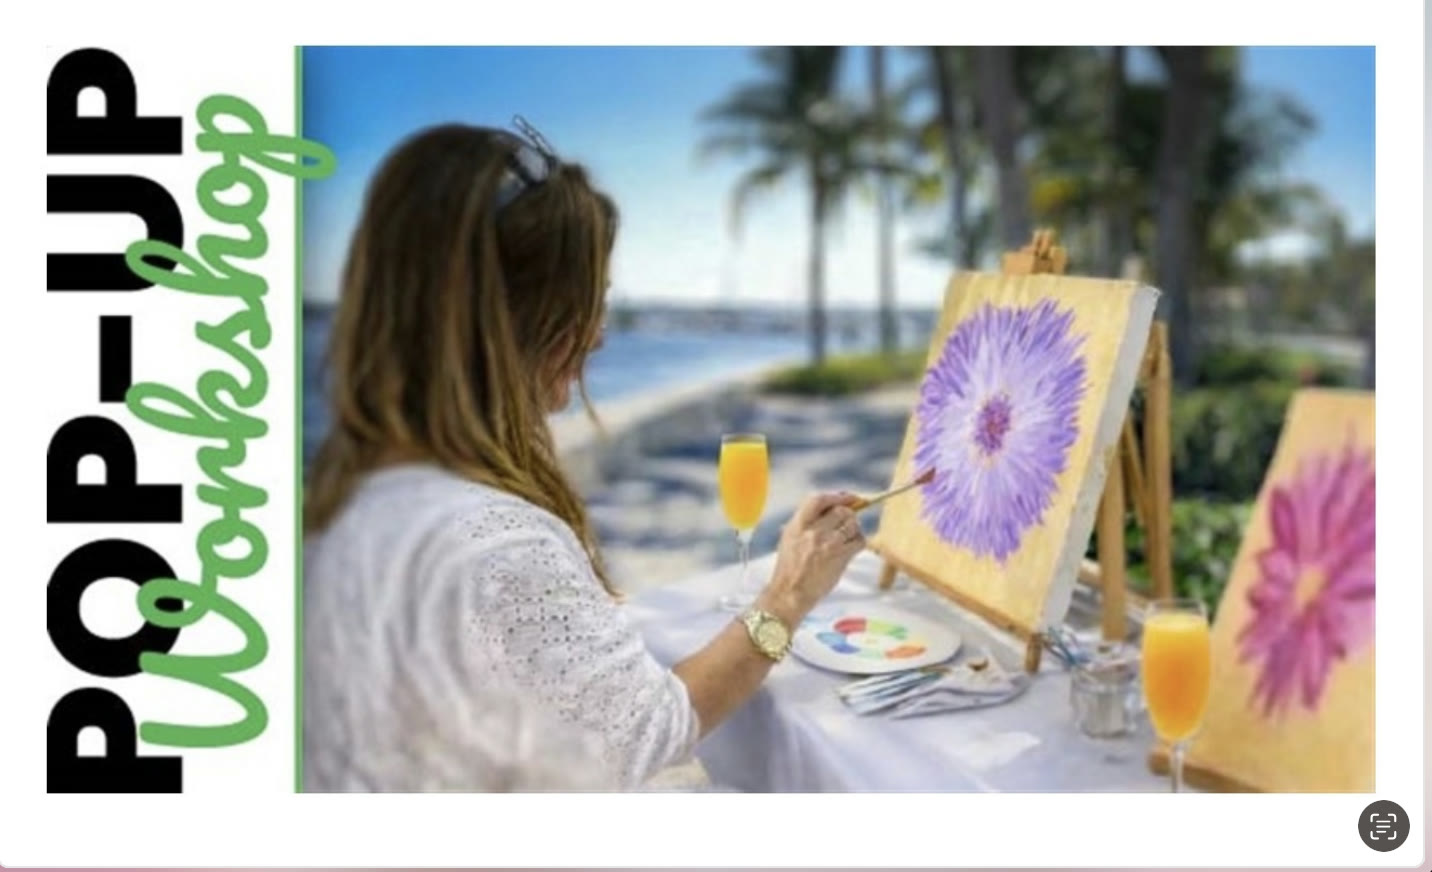
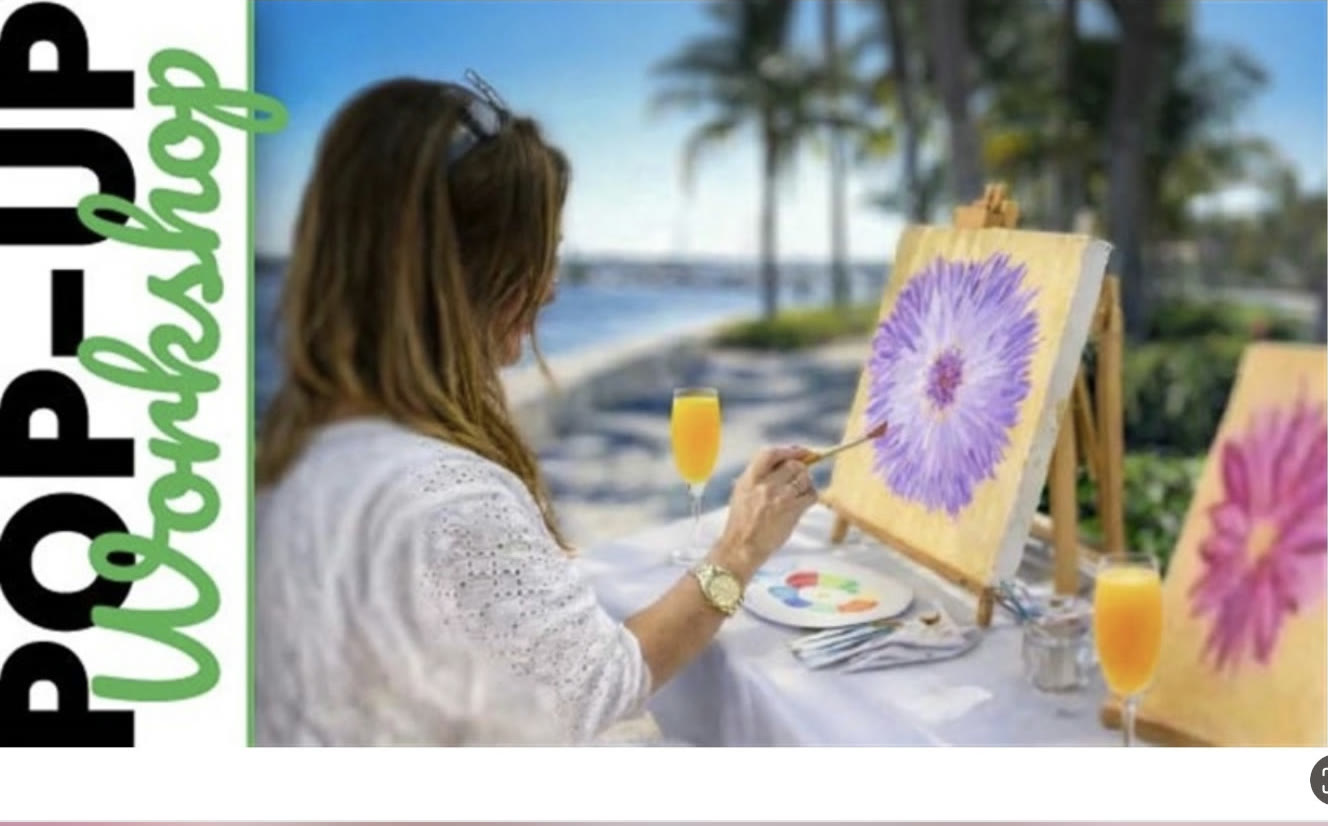
feat: painted 'energy' headline with the brush; shop CTA in header; workshop photo trimmed

diff --git a/components/HeroTitle.tsx b/components/HeroTitle.tsx
@@ -1,0 +1,49 @@
+/**
+ * "Art that changes the energy of a room."
+ * Set in three voices: upright Bodoni, then "energy" oversized in italic and filled with
+ * Celestial Moonlight itself, sitting on a smear of hibiscus paint, with the brush that made it.
+ */
+export default function HeroTitle() {
+  return (
+    <h1 className="display relative mt-3 text-[clamp(2.6rem,5.4vw,4.8rem)] leading-[0.94] lg:mt-5" aria-label="Art that changes the energy of a room.">
+      <span className="block">Art that changes</span>
+      <span className="block">
+        <span className="mr-[0.22em] align-baseline text-[0.62em] font-normal italic text-ink/70">the</span>
+        <span className="relative inline-block align-baseline [isolation:isolate]">
+          {/* paint smear behind the word */}
+          <svg viewBox="0 0 400 60" className="hero-smear pointer-events-none absolute left-[-6%] top-[22%] z-0 h-[0.9em] w-[112%] overflow-visible" style={{ transform: "rotate(-2deg)" }} aria-hidden>
+            <defs>
+              <mask id="hero-smear-mask" maskUnits="userSpaceOnUse" x="0" y="0" width="400" height="60">
+                <path d="M8 30 C 4 18, 16 10, 30 12 C 48 6, 66 16, 88 10 C 112 4, 134 14, 158 9 C 184 4, 206 15, 232 10 C 258 5, 282 14, 308 9 C 332 5, 356 12, 380 9 C 390 8, 397 12, 398 17 C 396 24, 386 28, 372 31 C 348 36, 322 30, 296 36 C 268 42, 244 34, 218 41 C 190 48, 164 40, 138 46 C 112 52, 88 44, 64 49 C 44 53, 24 50, 14 44 C 8 40, 6 35, 8 30 Z" fill="white" />
+                <path d="M330 8 C 352 6, 374 5, 399 4 L 399 7 C 374 8, 352 10, 330 12 Z" fill="white" />
+                <path d="M338 32 C 360 31, 380 28, 399 24 L 399 27 C 380 31, 360 34, 338 36 Z" fill="white" />
+                <path d="M150 44 C 190 40, 230 43, 270 38 L 270 40 C 230 45, 190 42, 150 46 Z" fill="black" />
+              </mask>
+            </defs>
+            <g mask="url(#hero-smear-mask)">
+              <rect width="400" height="60" fill="#e8397f" />
+              <path d="M14 20 C 60 12, 120 20, 180 14 C 240 8, 300 16, 380 10 L 380 13 C 300 20, 240 12, 180 18 C 120 24, 60 16, 14 24 Z" fill="#fff" opacity="0.26" />
+              <path d="M20 40 C 70 46, 130 38, 200 44 C 260 49, 320 40, 372 30 L 372 33 C 320 44, 260 53, 200 48 C 130 42, 70 50, 20 44 Z" fill="#000" opacity="0.14" />
+            </g>
+          </svg>
+          {/* transform lives on the wrapper: background-clip:text breaks on a composited element */}
+          <span className="relative z-10 inline-block" style={{ transform: "rotate(-2deg)" }}>
+            <em className="paint-text -mb-[0.32em] -mt-[0.12em] inline-block pb-[0.32em] pr-[0.08em] pt-[0.12em] text-[1.28em] font-normal italic leading-[0.9] tracking-[-0.01em]">energy</em>
+          </span>
+          {/* the brush that made it, tip at the end of the stroke */}
+          {/* eslint-disable-next-line @next/next/no-img-element */}
+          <img
+            src="/brand/brush.png"
+            alt=""
+            aria-hidden
+            width={1400}
+            height={815}
+            className="hero-brush pointer-events-none absolute left-[90%] top-[-62%] z-20 hidden w-[2.6em] origin-[8%_80%] sm:block"
+            draggable={false}
+          />
+        </span>
+      </span>
+      <span className="block">of a room.</span>
+    </h1>
+  );
+}

diff --git a/app/page.tsx b/app/page.tsx
@@ -10,6 +10,7 @@ import VideoPlayer from "@/components/VideoPlayer";
 import WorkCard from "@/components/WorkCard";
 import PaintBlob from "@/components/PaintBlob";
 import Scribble from "@/components/Scribble";
+import HeroTitle from "@/components/HeroTitle";
 import { site, money } from "@/lib/site";
 import { bySlug, heroSlugs, wallSlugs, inCollection, img, dims } from "@/lib/catalog";
 import { collections, quotes, statement, process as processSteps, books } from "@/lib/content";
@@ -36,9 +37,7 @@ export default function Home() {
         <div className="wrap relative grid min-h-[calc(100svh-var(--header-h))] grid-cols-1 content-center gap-y-4 py-6 lg:grid-cols-[1.05fr_1fr] lg:grid-rows-[auto_auto] lg:items-center lg:gap-x-10 lg:py-6">
           <div className="lg:col-start-1 lg:self-end">
             <p className="display-light text-[1.05rem] italic text-ink/60">Carol Calicchio Art Studio, Delray Beach</p>
-            <h1 className="display mt-3 text-[clamp(2.7rem,5.6vw,5rem)] leading-[0.98] lg:mt-5">
-              Art that changes the <em className="text-ink">energy</em> of a room.
-            </h1>
+            <HeroTitle />
           </div>
           <div className="lg:col-start-2 lg:row-span-2 lg:row-start-1">
             <Easel works={hero} className="mx-auto w-full max-w-[min(100%,300px)] sm:max-w-[420px] lg:max-w-[560px]" />

diff --git a/components/Header.tsx b/components/Header.tsx
@@ -107,8 +107,8 @@ export default function Header() {
                 <span className="absolute -right-0.5 -top-0.5 grid h-5 min-w-5 place-items-center rounded-full bg-hibiscus px-1 text-[0.68rem] font-bold text-white">{count}</span>
               )}
             </button>
-            <Link href="/studio#visit" className="btn btn-sm btn-ink hidden sm:inline-flex">
-              Visit the studio
+            <Link href="/shop" className="btn btn-sm btn-pink hidden sm:inline-flex">
+              Shop originals
             </Link>
             <button
               type="button"
@@ -187,12 +187,12 @@ export default function Header() {
             </div>
           ))}
           <div className="mt-8 flex flex-wrap gap-3">
-            <Link href="/studio#visit" className="btn btn-ink">
+            <Link href="/shop" className="btn btn-pink">
+              Shop originals
+            </Link>
+            <Link href="/studio#visit" className="btn btn-line">
               Visit the studio
             </Link>
-            <a href={site.phoneHref} className="btn btn-line">
-              Call {site.phone}
-            </a>
           </div>
           <p className="mt-8 text-sm text-muted">
             {site.studio.street}, {site.studio.city}, {site.studio.state} · {site.studio.note}

diff --git a/app/globals.css b/app/globals.css
@@ -406,3 +406,25 @@ body {
   .paint-blob { transform: none !important; }
   .scribble .smear { transform: none; transition: none; }
 }
+
+/* Hero title: the word "energy" is made of her paint, with the brush that made it */
+.paint-text {
+  background-image: url("/art/celestial-moonlight.jpg");
+  background-size: 130% auto;
+  background-position: 30% 68%;
+  -webkit-background-clip: text;
+  background-clip: text;
+  color: transparent;
+  -webkit-text-fill-color: transparent;
+}
+@keyframes wipe-in { from { transform: scaleX(0); } to { transform: scaleX(1); } }
+@keyframes brush-in {
+  from { transform: translate(-38%, 10%) rotate(-38deg); opacity: 0; }
+  to { transform: translate(0, 0) rotate(-24deg); opacity: 1; }
+}
+.hero-smear { transform-origin: 0 50%; animation: wipe-in 0.9s cubic-bezier(0.3, 0, 0.2, 1) 0.35s both; }
+.hero-brush { animation: brush-in 1.1s cubic-bezier(0.2, 0.8, 0.2, 1) 0.2s both; filter: drop-shadow(0 18px 22px rgba(18, 23, 43, 0.28)); }
+@media (prefers-reduced-motion: reduce) {
+  .hero-smear, .hero-brush { animation: none; }
+  .hero-brush { transform: rotate(-24deg); }
+}

diff --git a/app/studio/page.tsx b/app/studio/page.tsx
@@ -82,7 +82,7 @@ export default function StudioPage() {
                 <Image src="/photos/paint-sip.jpg" alt="Paint and Sip with Carol Calicchio at the Delray Beach Historical Society" fill sizes="25vw" className="object-cover" />
               </div>
               <div className="wrap-edge relative aspect-[3/4] overflow-hidden bg-linen">
-                <Image src="/photos/popup-workshop.jpg" alt="Pop-up workshop with easels by the water" fill sizes="25vw" className="object-cover" />
+                <Image src="/photos/popup-workshop.jpg" alt="Painting at a pop-up workshop by the water" fill sizes="25vw" className="object-cover object-[58%_50%]" />
               </div>
             </div>
           </Reveal>
